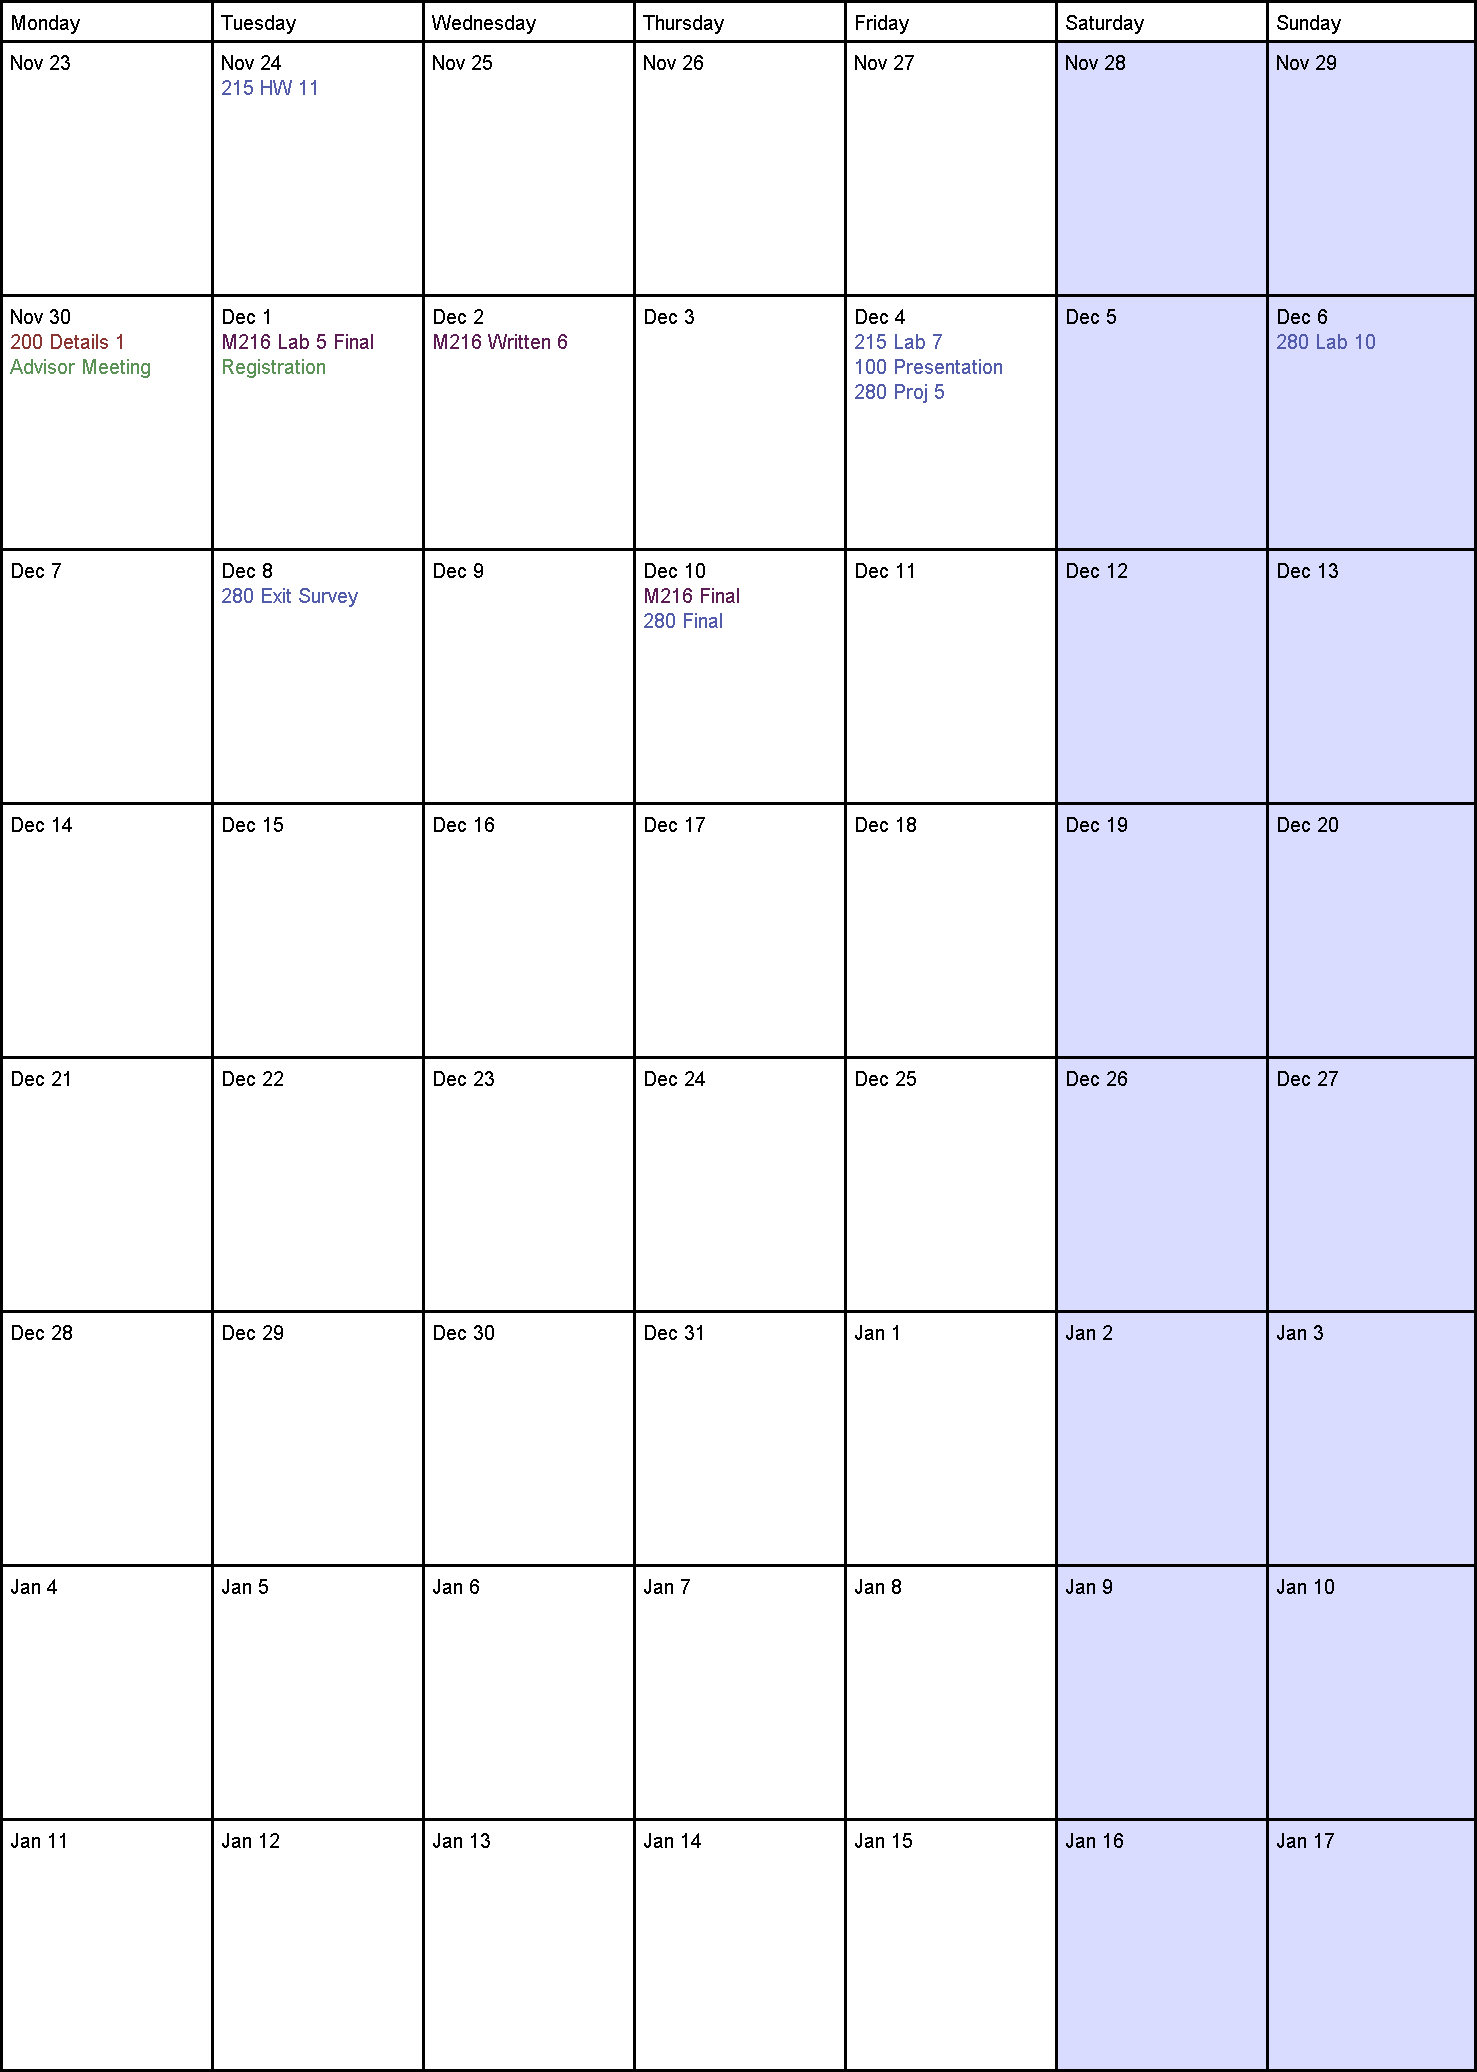
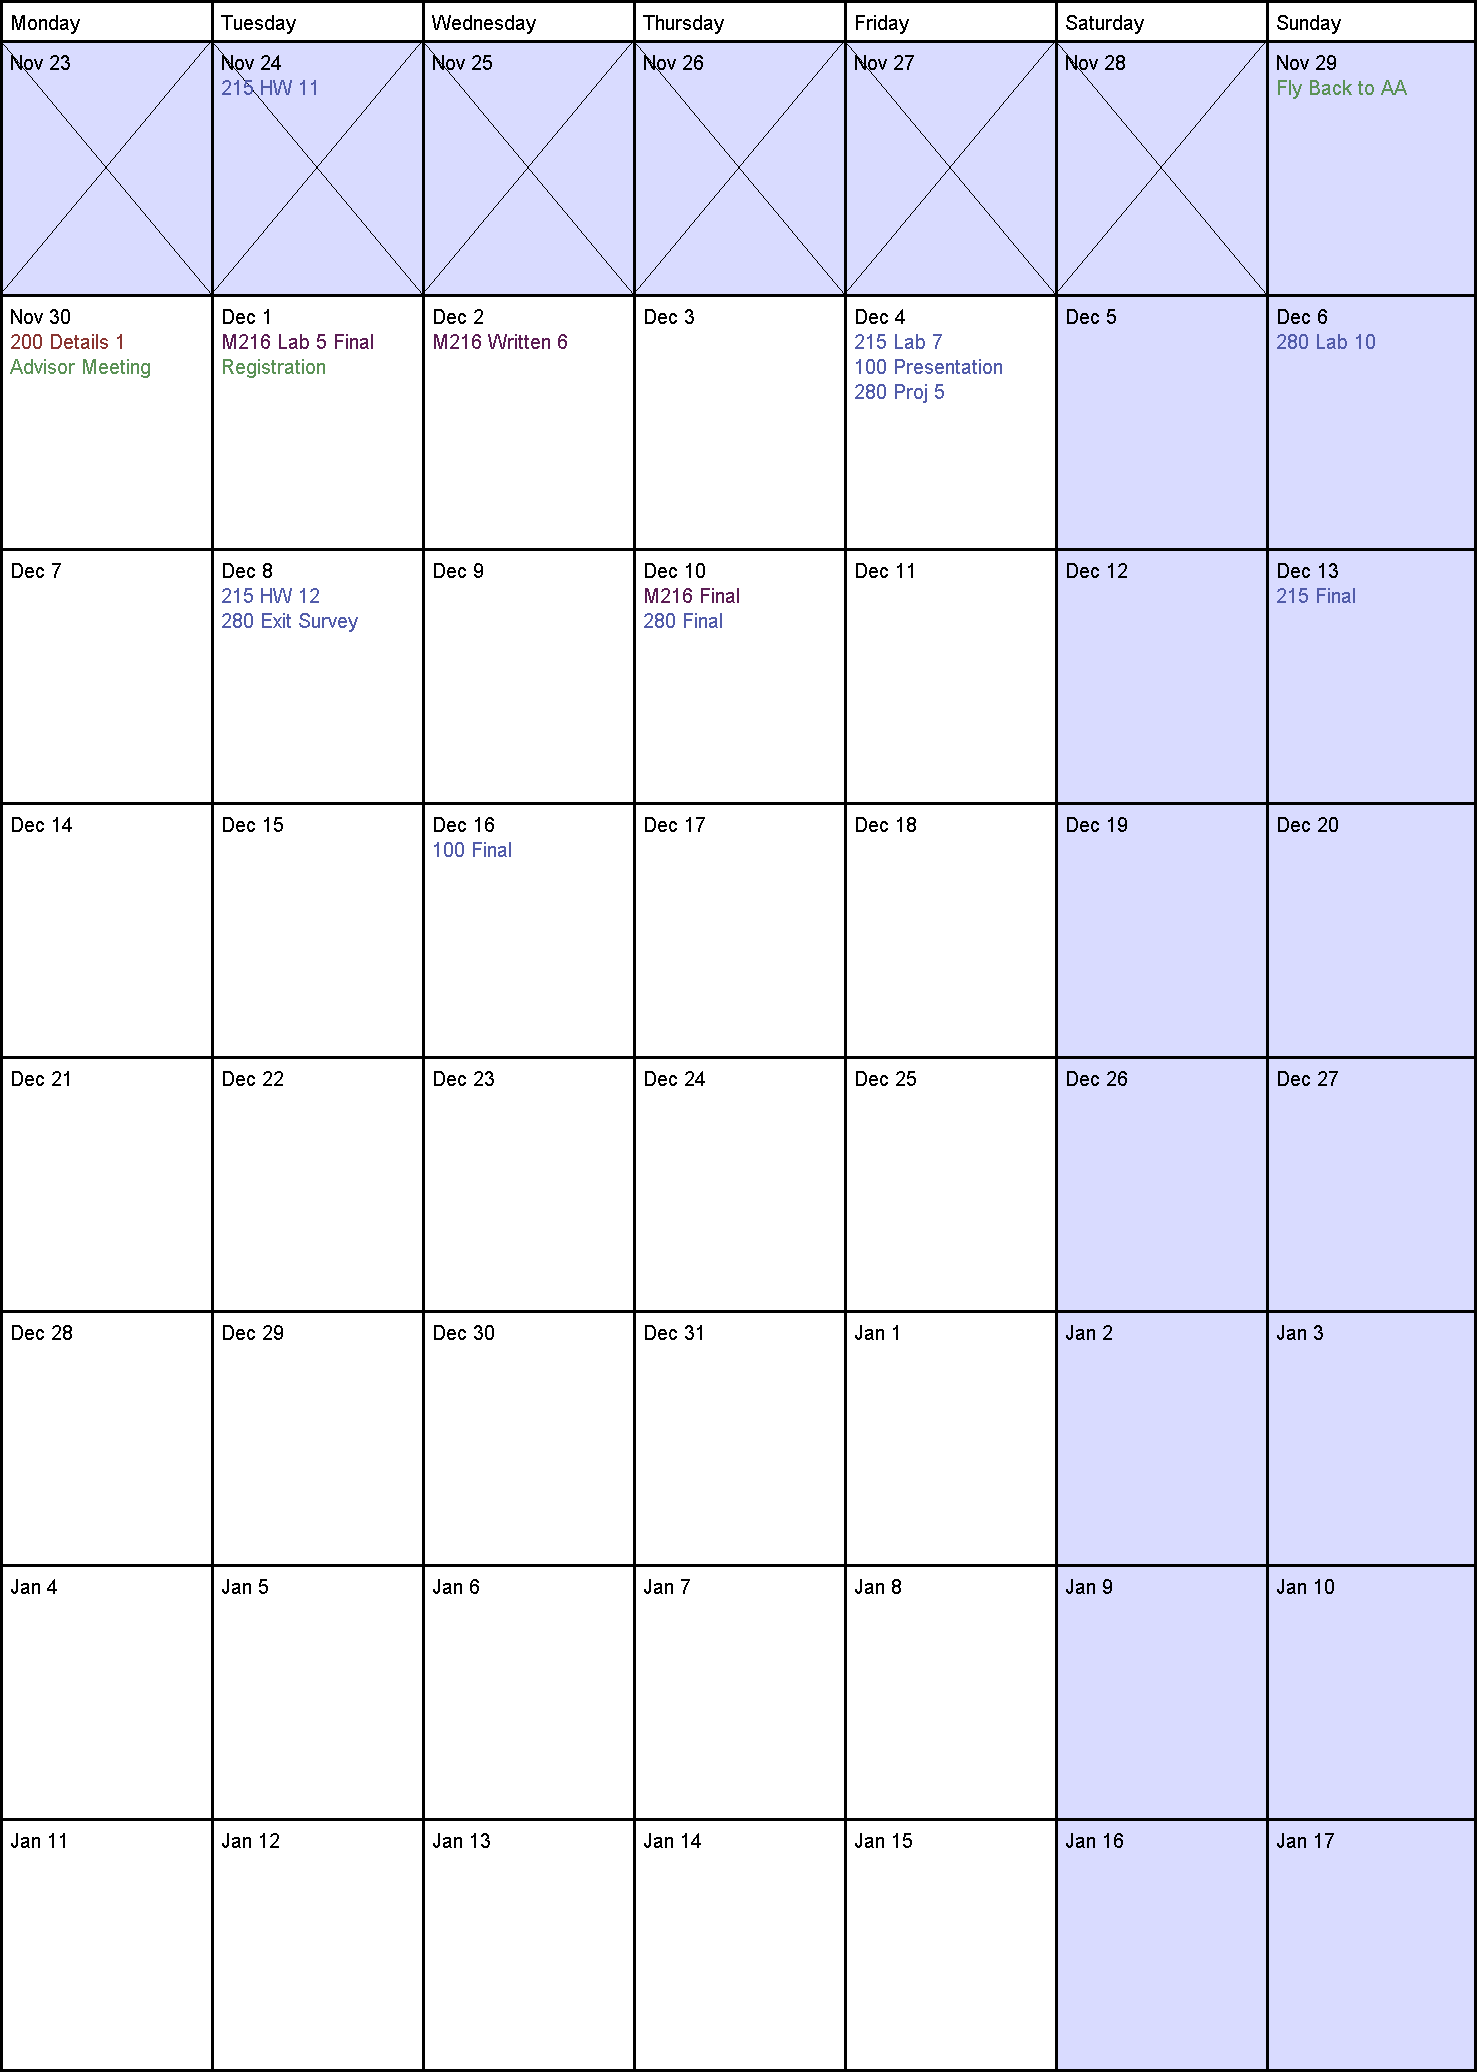
i am afraid

Changed region(s): [[0.0, 0.0, 0.7163, 0.1544], [0.1557, 0.278, 0.2492, 0.3089]]

diff --git a/src/Calendar.java b/src/Calendar.java
@@ -86,14 +86,18 @@ public class Calendar extends Applet implements Runnable, KeyListener {
         addWeeklyEvents();
         addEvent("215 Quiz 4", getDayofYear(16,11), 1);
         addEvent("215 HW 11", getDayofYear(24,11), 1);
+        addEvent("215 HW 12", getDayofYear(8,12), 1);
+        addEvent("215 Final", getDayofYear(13,12), 1);
         addEvent("215 Lab 7", getDayofYear(4,12), 1);
         addEvent("M216 Lab 5 Final", getDayofYear(1,12), 4);
         addEvent("M216 Written 6", getDayofYear(2,12), 4);
         addEvent("M216 Final", getDayofYear(10,12), 4);
         addEvent("100 Presentation", getDayofYear(4,12), 1);
+        addEvent("100 Final", getDayofYear(16,12), 1);
         addEvent("Backpack Opens", getDayofYear(9,11), 1);
         addEvent("200 Details 1", getDayofYear(30,11), 2);
         addEvent("Advisor Meeting", getDayofYear(30,11), 3);
+        addEvent("Fly Back to AA", getDayofYear(29,11), 3);
         addEvent("Registration", getDayofYear(1,12), 3);
         addEvent("280 Lab 10", getDayofYear(6,12), 1);
         addEvent("280 Proj 5", getDayofYear(4,12), 1);
